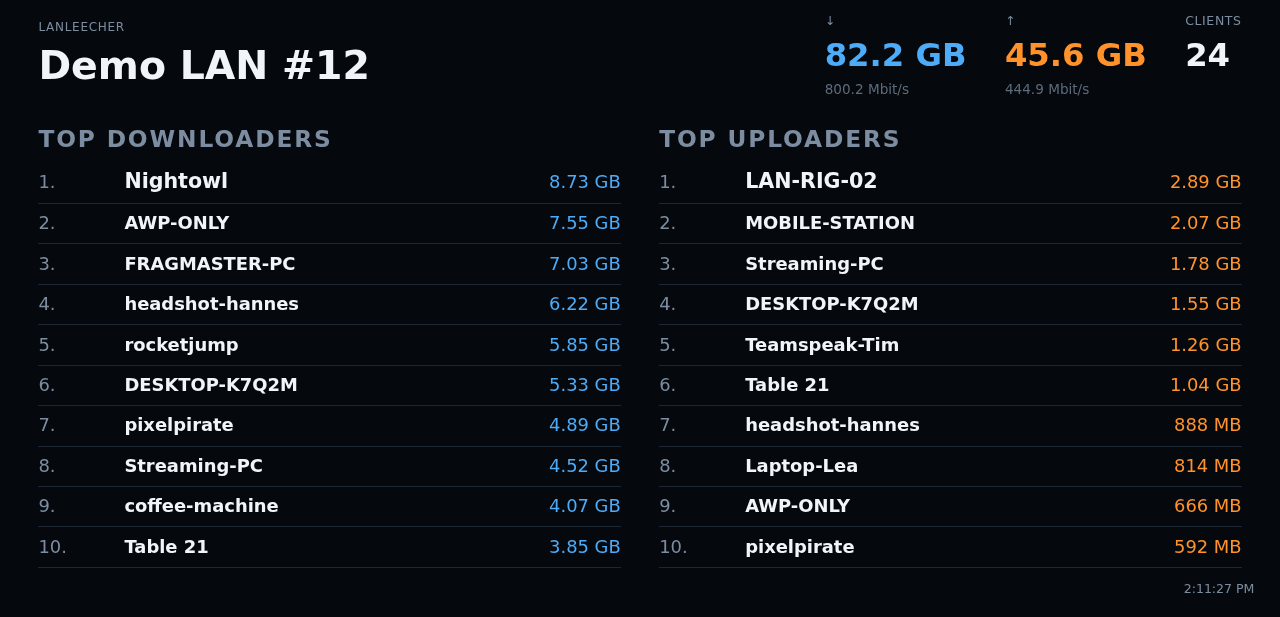
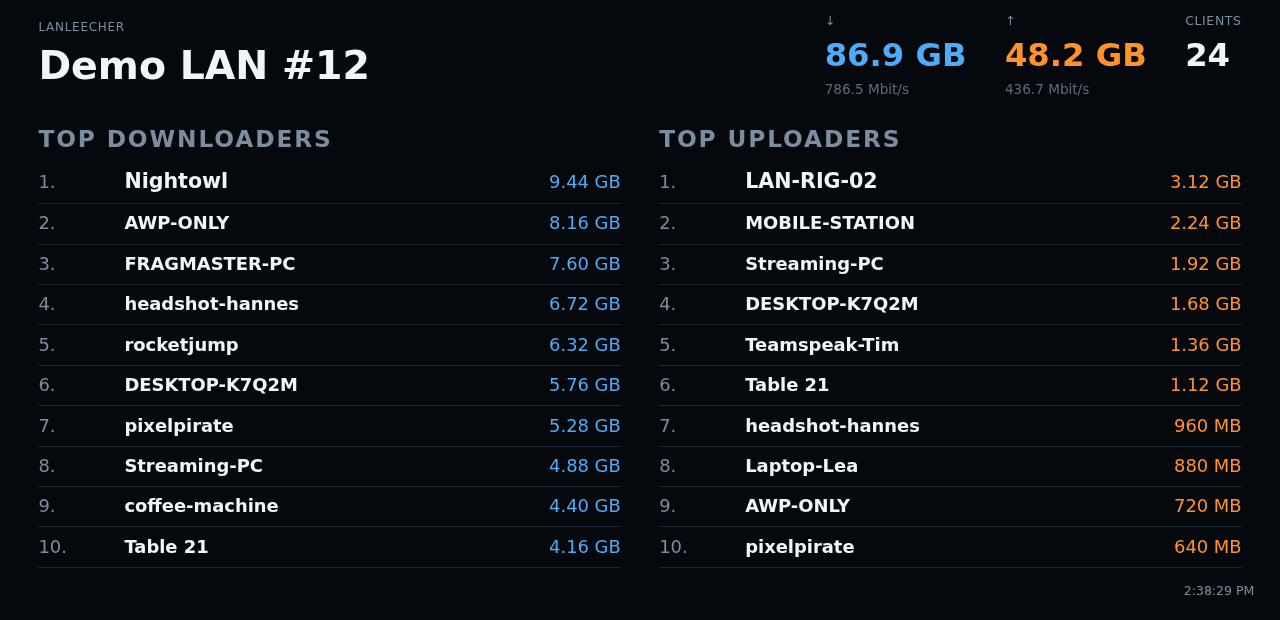
Add a light/dark theme toggle and new screenshots
The UI already followed the system's color scheme. Users can now pick
automatic, light or dark with a toggle in the top bar (works without
JavaScript) or on the account page. The choice is stored per user
(migration 00002) and in a cookie, so the login page matches after
logging out. The beamer view stays dark.

New screenshots from the simulated demo switch, in both themes, taken
with an exact viewport so the timeline is no longer cut off.

diff --git a/internal/web/static/app.css b/internal/web/static/app.css
@@ -19,8 +19,29 @@
   --shadow: 0 1px 2px rgba(16, 24, 40, .06), 0 1px 3px rgba(16, 24, 40, .08);
   color-scheme: light;
 }
+/* Dark colors: always with data-theme="dark", and with "auto" when the system prefers dark. */
+:root[data-theme="dark"] {
+  --bg: #0f141a;
+  --surface: #161d26;
+  --surface-2: #1d2632;
+  --text: #e6edf3;
+  --muted: #93a1b2;
+  --border: #2a3644;
+  --accent: #4dabf7;
+  --accent-text: #0f141a;
+  --down: #4dabf7;
+  --up: #ff922b;
+  --ok: #51cf66;
+  --err: #ff6b6b;
+  --warn: #ffc078;
+  --warn-bg: #3a2a10;
+  --ok-bg: #12301b;
+  --err-bg: #3a1616;
+  --shadow: none;
+  color-scheme: dark;
+}
 @media (prefers-color-scheme: dark) {
-  :root {
+  :root:not([data-theme="light"]):not([data-theme="dark"]) {
     --bg: #0f141a;
     --surface: #161d26;
     --surface-2: #1d2632;
@@ -68,6 +89,11 @@ h4 { font-size: .95rem; margin: 1rem 0 .4rem; }
 .search input { width: 15rem; }
 .user { display: flex; gap: .6rem; align-items: center; }
 .user form { margin: 0; }
+.theme-toggle button.icon {
+  background: none; border: 1px solid transparent; font-size: 1.1rem; line-height: 1; padding: .3rem .45rem;
+  color: var(--muted);
+}
+.theme-toggle button.icon:hover { border-color: var(--border); color: var(--text); }
 .subnav { display: flex; gap: 1rem; margin: .4rem 0 1rem; }
 
 .container { max-width: 1280px; margin: 0 auto; padding: 1rem; }

diff --git a/internal/web/templates/layout.html b/internal/web/templates/layout.html
@@ -1,5 +1,5 @@
 {{define "layout"}}<!doctype html>
-<html lang="{{.Lang}}">
+<html lang="{{.Lang}}" data-theme="{{.Theme}}">
 <head>
 <meta charset="utf-8">
 <meta name="viewport" content="width=device-width, initial-scale=1">
@@ -27,6 +27,13 @@
     <input type="search" name="q" placeholder="{{.T "search.placeholder"}}" aria-label="{{.T "nav.search"}}">
   </form>
   <div class="user">
+    <form action="/account/theme" method="post" class="theme-toggle">
+      <input type="hidden" name="_csrf" value="{{.CSRF}}">
+      <input type="hidden" name="theme" value="{{.NextTheme}}">
+      <input type="hidden" name="back" value="{{.Path}}">
+      <button class="icon" type="submit" title="{{.T "theme.toggle" (.T (print "theme." .Theme)) (.T (print "theme." .NextTheme))}}"
+        aria-label="{{.T "theme.toggle" (.T (print "theme." .Theme)) (.T (print "theme." .NextTheme))}}">{{if eq .Theme "dark"}}☾{{else if eq .Theme "light"}}☀{{else}}◐{{end}}</button>
+    </form>
     <a href="/account">{{.User.Username}}</a>
     <form action="/logout" method="post"><input type="hidden" name="_csrf" value="{{.CSRF}}">
       <button class="link" type="submit">{{.T "nav.logout"}}</button></form>

diff --git a/internal/web/templates/account.html b/internal/web/templates/account.html
@@ -12,6 +12,16 @@
   </form>
 </section>
 <section class="card">
+  <h3>{{.T "account.theme"}}</h3>
+  <form method="post" action="/account/theme" class="inline">
+    <input type="hidden" name="_csrf" value="{{.CSRF}}">
+    <input type="hidden" name="back" value="/account?ok=saved">
+    <select name="theme">{{range themes}}<option value="{{.}}"{{if eq . $.Theme}} selected{{end}}>{{$.T (print "theme." .)}}</option>{{end}}</select>
+    <button type="submit">{{.T "action.save"}}</button>
+  </form>
+  <p class="muted small">{{.T "account.theme_hint"}}</p>
+</section>
+<section class="card">
   <h3>{{.T "account.language"}}</h3>
   <form method="post" action="/account/language" class="inline">
     <input type="hidden" name="_csrf" value="{{.CSRF}}">

diff --git a/internal/store/users.go b/internal/store/users.go
@@ -35,21 +35,23 @@ type User struct {
 	PasswordHash string
 	Role         string
 	Language     string
-	Disabled     bool
-	CreatedAt    time.Time
-	LastLogin    *time.Time
+	// Theme is the UI color theme: auto, light or dark.
+	Theme     string
+	Disabled  bool
+	CreatedAt time.Time
+	LastLogin *time.Time
 }
 
 // Can reports whether the user has at least the given role.
 func (u *User) Can(role string) bool { return u != nil && RoleLevel(u.Role) >= RoleLevel(role) }
 
-const userCols = `id, username, password_hash, role, language, disabled, created_at, last_login`
+const userCols = `id, username, password_hash, role, language, theme, disabled, created_at, last_login`
 
 func scanUser(row interface{ Scan(...any) error }) (*User, error) {
 	var u User
 	var created int64
 	var last sql.NullInt64
-	err := row.Scan(&u.ID, &u.Username, &u.PasswordHash, &u.Role, &u.Language, &u.Disabled, &created, &last)
+	err := row.Scan(&u.ID, &u.Username, &u.PasswordHash, &u.Role, &u.Language, &u.Theme, &u.Disabled, &created, &last)
 	if errors.Is(err, sql.ErrNoRows) {
 		return nil, ErrNotFound
 	}
@@ -133,6 +135,28 @@ func (db *DB) UpdateUser(ctx context.Context, id int64, role, language string, d
 // SetUserLanguage changes the UI language of a user.
 func (db *DB) SetUserLanguage(ctx context.Context, id int64, language string) error {
 	_, err := db.sql.ExecContext(ctx, `UPDATE users SET language = ? WHERE id = ?`, language, id)
+	return err
+}
+
+// Themes are the valid UI color themes.
+var Themes = []string{"auto", "light", "dark"}
+
+// ValidTheme reports whether t is a known theme.
+func ValidTheme(t string) bool {
+	for _, v := range Themes {
+		if t == v {
+			return true
+		}
+	}
+	return false
+}
+
+// SetUserTheme changes the UI color theme of a user.
+func (db *DB) SetUserTheme(ctx context.Context, id int64, theme string) error {
+	if !ValidTheme(theme) {
+		return errors.New("invalid theme")
+	}
+	_, err := db.sql.ExecContext(ctx, `UPDATE users SET theme = ? WHERE id = ?`, theme, id)
 	return err
 }
 

diff --git a/internal/web/server.go b/internal/web/server.go
@@ -85,6 +85,7 @@ func (s *Server) Routes() http.Handler {
 		r.Get("/account", s.account)
 		r.Post("/account/password", s.accountPassword)
 		r.Post("/account/language", s.accountLanguage)
+		r.Post("/account/theme", s.accountTheme)
 
 		r.Group(func(r chi.Router) {
 			r.Use(s.requireRole(store.RoleOperator))
@@ -186,7 +187,22 @@ type Page struct {
 	Error   string
 	Version string
 	Board   bool
-	Data    any
+	// Theme is the color theme: auto, light or dark.
+	Theme string
+	// Path is the current request URI, to return to after a theme change.
+	Path string
+	Data any
+}
+
+// NextTheme is the theme the toggle in the top bar switches to.
+func (p *Page) NextTheme() string {
+	switch p.Theme {
+	case "auto":
+		return "light"
+	case "light":
+		return "dark"
+	}
+	return "auto"
 }
 
 // T translates a key.
@@ -197,7 +213,7 @@ func (p *Page) Can(role string) bool { return p.User.Can(role) }
 
 func (s *Server) page(r *http.Request, title, nav string, data any) *Page {
 	p := &Page{Lang: language(r), User: app.User(r.Context()), Title: title, Nav: nav, Version: version.Version,
-		Board: s.Cfg.Board.Enabled, Data: data}
+		Board: s.Cfg.Board.Enabled, Theme: theme(r), Path: r.URL.RequestURI(), Data: data}
 	if sess := app.Session(r.Context()); sess != nil {
 		p.CSRF = sess.CSRFToken
 	}
@@ -260,6 +276,20 @@ func (s *Server) fail(w http.ResponseWriter, r *http.Request, err error) {
 
 func redirect(w http.ResponseWriter, r *http.Request, to string) {
 	http.Redirect(w, r, to, http.StatusSeeOther)
+}
+
+// themeCookie keeps the theme for the login page after logout.
+const themeCookie = "ll_theme"
+
+// theme picks the user's theme, else the cookie's, else auto.
+func theme(r *http.Request) string {
+	if u := app.User(r.Context()); u != nil && store.ValidTheme(u.Theme) {
+		return u.Theme
+	}
+	if c, err := r.Cookie(themeCookie); err == nil && store.ValidTheme(c.Value) {
+		return c.Value
+	}
+	return "auto"
 }
 
 // language picks the user's language, else the browser's, else English.

diff --git a/internal/web/i18n.go b/internal/web/i18n.go
@@ -198,6 +198,13 @@ var messages = map[string][2]string{
 	"account.password": {"Passwort ändern", "Change password"},
 	"account.current":  {"Aktuelles Passwort", "Current password"},
 	"account.language": {"Sprache", "Language"},
+	"account.theme":    {"Darstellung", "Theme"},
+	"account.theme_hint": {"Automatisch folgt der Einstellung von Betriebssystem bzw. Browser. Die Beameransicht ist immer dunkel.",
+		"Automatic follows the operating system or browser setting. The beamer view is always dark."},
+	"theme.auto":   {"automatisch", "automatic"},
+	"theme.light":  {"hell", "light"},
+	"theme.dark":   {"dunkel", "dark"},
+	"theme.toggle": {"Darstellung: %s – klicken für %s", "Theme: %s – click for %s"},
 
 	"tokens.created":        {"Token erstellt", "Token created"},
 	"tokens.once":           {"Der Token wird nur jetzt angezeigt. Bitte sofort sicher ablegen.", "The token is shown only now. Store it safely right away."},

diff --git a/internal/web/handlers_auth.go b/internal/web/handlers_auth.go
@@ -129,6 +129,22 @@ func (s *Server) accountPassword(w http.ResponseWriter, r *http.Request) {
 	redirect(w, r, "/login")
 }
 
+// accountTheme stores the color theme and returns to the page the user came from.
+func (s *Server) accountTheme(w http.ResponseWriter, r *http.Request) {
+	t := r.PostFormValue("theme")
+	if !store.ValidTheme(t) {
+		s.errorPage(w, r, http.StatusBadRequest, "error.bad_request")
+		return
+	}
+	if err := s.DB.SetUserTheme(r.Context(), app.User(r.Context()).ID, t); err != nil {
+		s.fail(w, r, err)
+		return
+	}
+	http.SetCookie(w, &http.Cookie{Name: themeCookie, Value: t, Path: "/", HttpOnly: true,
+		SameSite: http.SameSiteLaxMode, Secure: s.Cfg.SecureCookies(), MaxAge: 365 * 24 * 3600})
+	redirect(w, r, safeNext(r.PostFormValue("back")))
+}
+
 func (s *Server) accountLanguage(w http.ResponseWriter, r *http.Request) {
 	lang := r.PostFormValue("language")
 	if lang != "de" && lang != "en" {

diff --git a/internal/web/format.go b/internal/web/format.go
@@ -34,8 +34,9 @@ var funcs = template.FuncMap{
 		}
 		return *t
 	},
-	"seq":   func(vals ...int) []int { return vals },
-	"lower": strings.ToLower,
+	"seq":    func(vals ...int) []int { return vals },
+	"lower":  strings.ToLower,
+	"themes": func() []string { return store.Themes },
 }
 
 // formatBytes uses decimal units like the switch and ISP world (1 GB = 10^9 B).

diff --git a/docs/concepts.md b/docs/concepts.md
@@ -42,6 +42,8 @@ than `polling.uplink_mac_threshold` or an LLDP neighbor; an admin confirms it by
 - A **device** groups one or more MACs that belong to one machine. Every new MAC gets its own device;
   an operator can merge devices (e.g. after a NIC change) and split a MAC off again. Rankings show
   devices, not single MACs.
+![A device page: totals per event, timeline, hostname and IP history, ports](images/device.png)
+
 - A **port group** is the shared ranking entry of a port with several clients. It lists all MACs
   seen on the port during the event.
 - **Unassigned** traffic was seen on a client port while no MAC was learned there (e.g. right after
@@ -108,6 +110,13 @@ because names such as `DESKTOP-ABC123` or `PC` are not unique.
 The beamer view at `/board` shows the top downloaders and uploaders of the active event with live
 updates. It renders exactly what `GET /api/v1/board` returns: no MACs, no IPs, no hidden entries.
 `rank_change` tells how many places an entry moved since the previous poll.
+
+## Theme
+
+The web UI has a light and a dark theme. **Automatic** (the default) follows the operating system or
+browser; each user can pick light or dark with the toggle in the top bar or on the account page. The
+choice is stored with the user and in a cookie, so the login page matches after logging out. The
+beamer view is always dark.
 
 ## Roles of users
 

diff --git a/README.md b/README.md
@@ -11,6 +11,8 @@ straight from the switches via SNMP; nothing has to be installed on the guests' 
 
 ![The dashboard during an event: totals, live throughput, top downloaders and uploaders](docs/images/dashboard.png)
 
+![The same dashboard in the dark theme](docs/images/dashboard-dark.png)
+
 ![The beamer view at /board, updated live after every poll](docs/images/board.png)
 
 ## What LANLeecher does
@@ -27,9 +29,10 @@ straight from the switches via SNMP; nothing has to be installed on the guests' 
   applies retroactively.
 - **Events** to start and stop, compare and export as CSV or JSON.
 - **Accounts** with three roles (viewer, operator, admin), API tokens with scopes, and an audit log.
+- **Light and dark theme**, following the system or chosen per user; English and German.
 - **Packages** for Debian/Ubuntu, Fedora/RHEL, Arch Linux and Alpine, and a multi-arch Docker image.
 
-![A switch with its ports: roles, labels, learned MACs, traffic in the event and live rates](docs/images/ports.png)
+![A switch with its ports: roles, labels, learned MACs, traffic in the event and live rates](docs/images/ports-dark.png)
 
 ## Design principles
 

diff --git a/CHANGELOG.md b/CHANGELOG.md
@@ -26,6 +26,8 @@ uses [Semantic Versioning](https://semver.org/spec/v2.0.0.html).
   per-event history and charts, switch and port management with connection test, merge
   suggestions, users, API tokens, audit log.
 - Beamer view `/board` with live updates via Server-Sent Events.
+- Light and dark theme: automatic (follows the operating system), or chosen per user with the
+  toggle in the top bar or on the account page.
 - REST API v1 with scoped bearer tokens (`read:rankings`, `read:clients`, `write:events`,
   `read:board`), IP allowlists, expiry, rate limits, RFC 9457 errors and an OpenAPI 3.1
   specification; Prometheus metrics.
